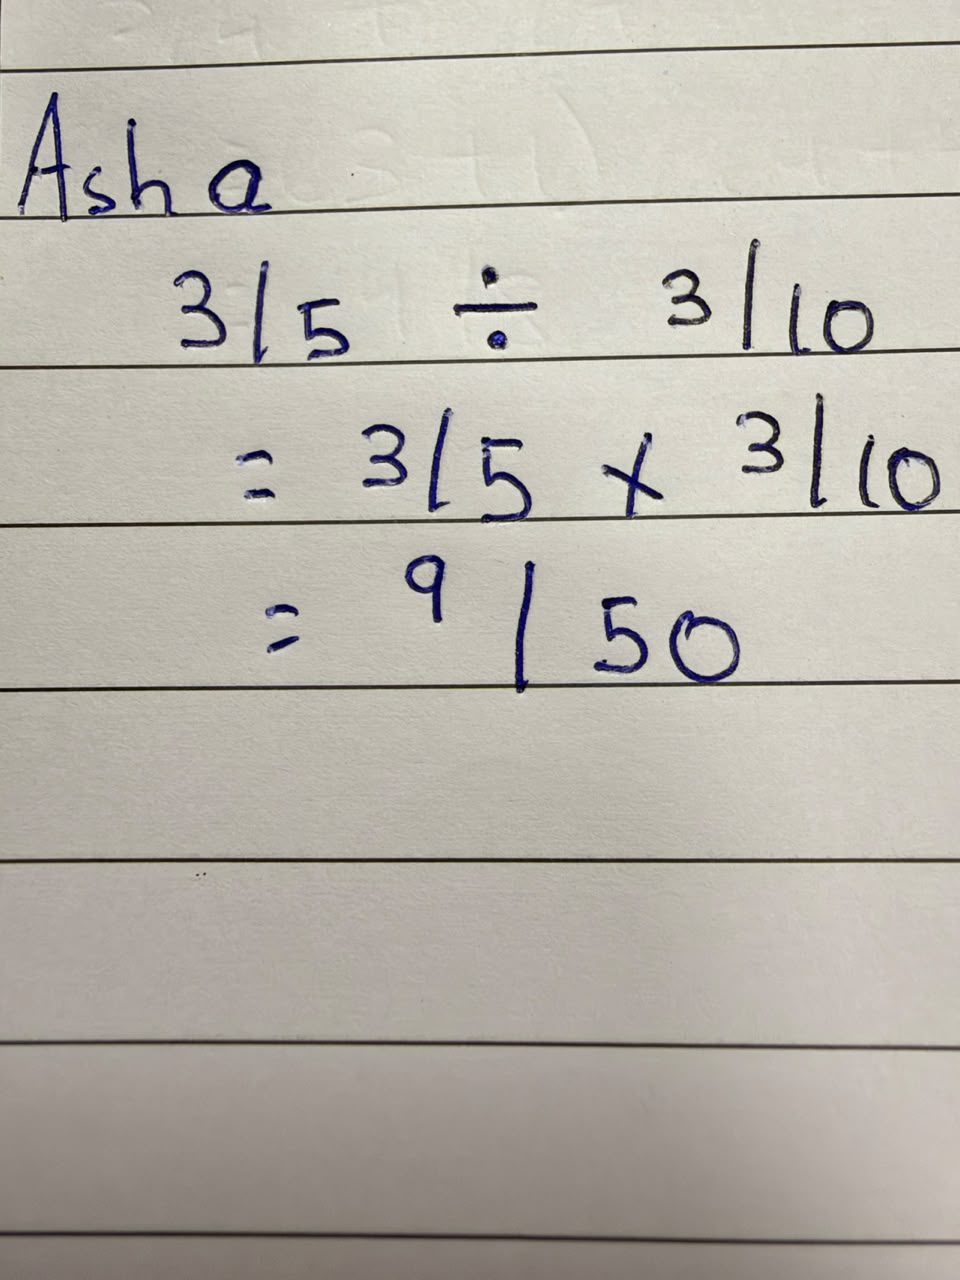
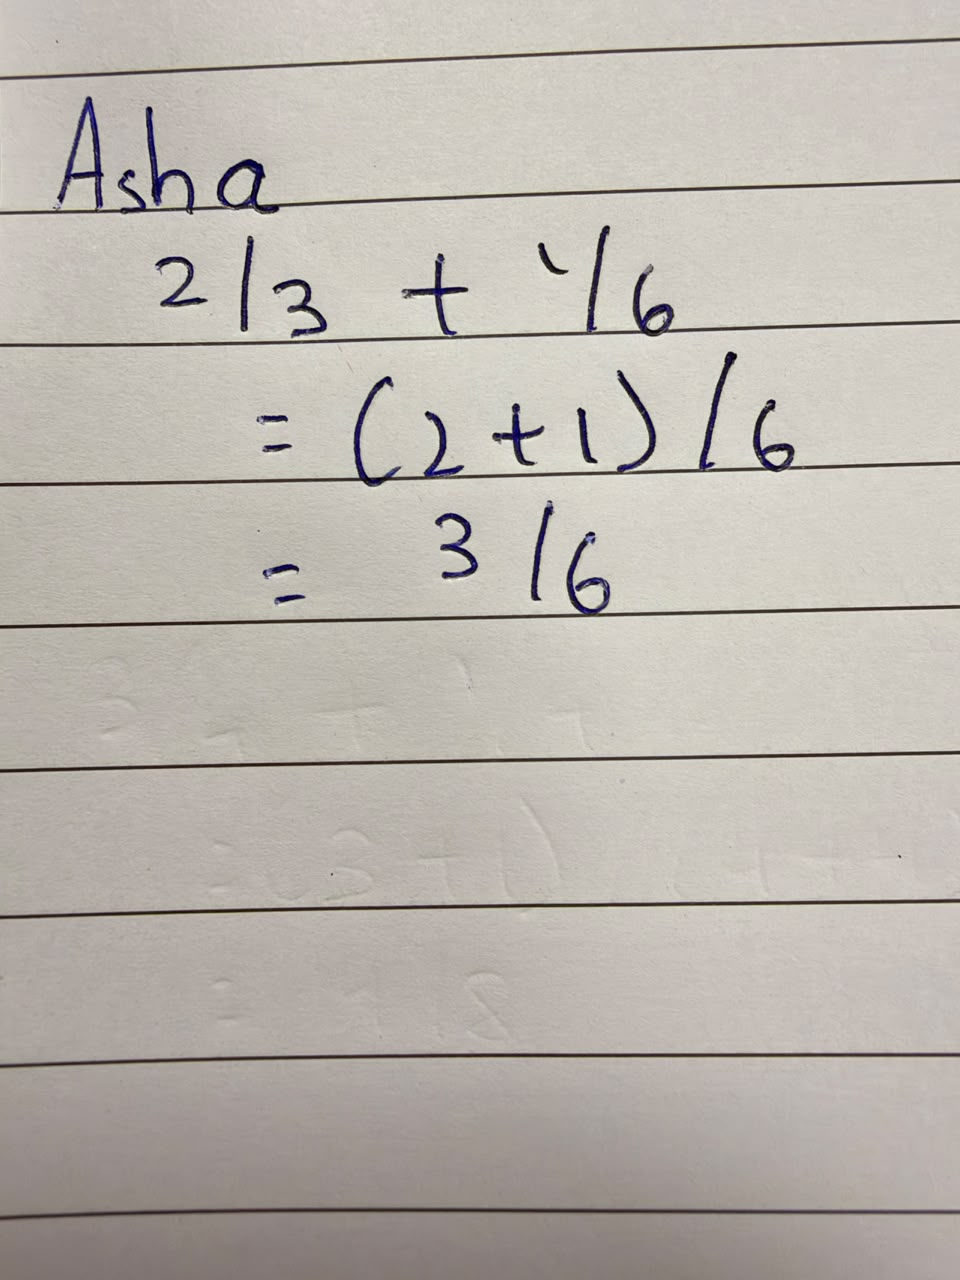
eval: handwriting on real phone photos: wrong step circled 6/6, mistake named 6/6, 2.3 s median (6 photos of 3 pages, 1 writer); two swapped photo names fixed; the eval reports its true number of writers and pages and no longer crashes a Windows console; the landing page leads with these numbers

diff --git a/frontend/lib/summary.ts b/frontend/lib/summary.ts
@@ -48,9 +48,11 @@ const KEY_ORDER = [
 // What the landing page shows first, in this order, when the number exists. Live counters since the last
 // reset (they include our own testing) stay on /judges, where their method says so.
 const LANDING_ORDER = [
-  ...KEY_ORDER,
+  "Wrong step circled correctly",
+  "Misconception named correctly from a photo",
   "Photo diagnosis time (median / p95)",
   "AI cost per student per month",
+  "Mistake named correctly from a typed answer alone (LLM fallback)",
   "Questions in the verified bank",
 ];
 

diff --git a/backend/app/evals.py b/backend/app/evals.py
@@ -180,9 +180,11 @@ async def run_photos() -> list[dict]:
     topic = get_topic()
     folder = settings.data_dir / "evidence" / "photos"
     labels = list(csv.DictReader(open(settings.data_dir / "evidence" / "labels.csv", encoding="utf-8")))
-    rows, ms, paise = [], [], []
+    rows, ms, paise, writers, cards = [], [], [], set(), set()
     for label in labels:
         for photo in sorted(folder.glob(f"{label['card']}_*")):
+            writers.add(label["writer"])
+            cards.add(label["card"])
             q = topic.question(label["question_id"])
             reading, telemetry = await read_photo(q, prepare_image(photo.read_bytes()), use_cache=False)
             ms += [t["ms"] for t in telemetry if t["ok"]]
@@ -219,7 +221,8 @@ async def run_photos() -> list[dict]:
     wrong = [r for r in rows if not r["truth_correct"]]
     tag_ok = sum(r["tag"] == r["truth_tag"] for r in wrong)
     step_ok = sum(r["step"] == r["truth_step"] for r in wrong)
-    method = f"{n} phone photos of handwritten working by 3 writers, labelled before running the model"
+    who = f"{len(writers)} writer" + ("s" if len(writers) != 1 else "")
+    method = f"{n} phone photos of {len(cards)} handwritten pages by {who}, labelled before running the model"
     numbers = [
         {
             "label": "Handwritten work marked right or wrong correctly",
@@ -275,6 +278,7 @@ def _save(kind: str, numbers: list[dict], rows: list[dict]) -> None:
 
 
 if __name__ == "__main__":
+    sys.stdout.reconfigure(encoding="utf-8", errors="replace")  # ₹ in the output crashes a Windows console
     cmd = sys.argv[1] if len(sys.argv) > 1 else ""
     if cmd == "typed":
         asyncio.run(run_typed())

diff --git a/README.md b/README.md
@@ -87,7 +87,7 @@ Every number carries *n* and the method. The raw rows are in [data/evals/results
 | Question bank verified | 37 of 37 | every answer and every distractor is checked by exact fraction arithmetic in the test suite (part of the backend test suite) |
 | Mistake named from a typed answer alone (the LLM fallback) | **27/30** | new problems, answered by applying a known wrong procedure (the label comes from how the answer was built); final answer only, no working |
 | AI cost per student per month | **₹3.64** | measured calls (3 per action) × published per-token prices, for one photo diagnosis, lesson, parent message and Kannada voice note per student per week plus a shared class plan; the voice note is ₹2.56 of it ([unit_costs.json](data/evals/unit_costs.json)) |
-| Handwritten work: wrong step circled, mistake named | *running on the 24 card photos* | 12 cards by 3 writers, labelled before running the model ([labels](data/evidence/labels.csv)) |
+| Handwritten work: wrong step circled, mistake named | **6/6** and **6/6** (median 2.3 s per photo) | 6 real phone photos of 3 handwritten pages by 1 writer, labelled before running the model ([labels](data/evidence/labels.csv), [photos](data/evidence/photos)). Small n: the other 2 writers' pages are still to be photographed |
 
 What we don't claim: we ran no classroom trial, have no users and no learning-gain data. The 30 students in class 7B are simulated, and Asha is a demo student.
 
